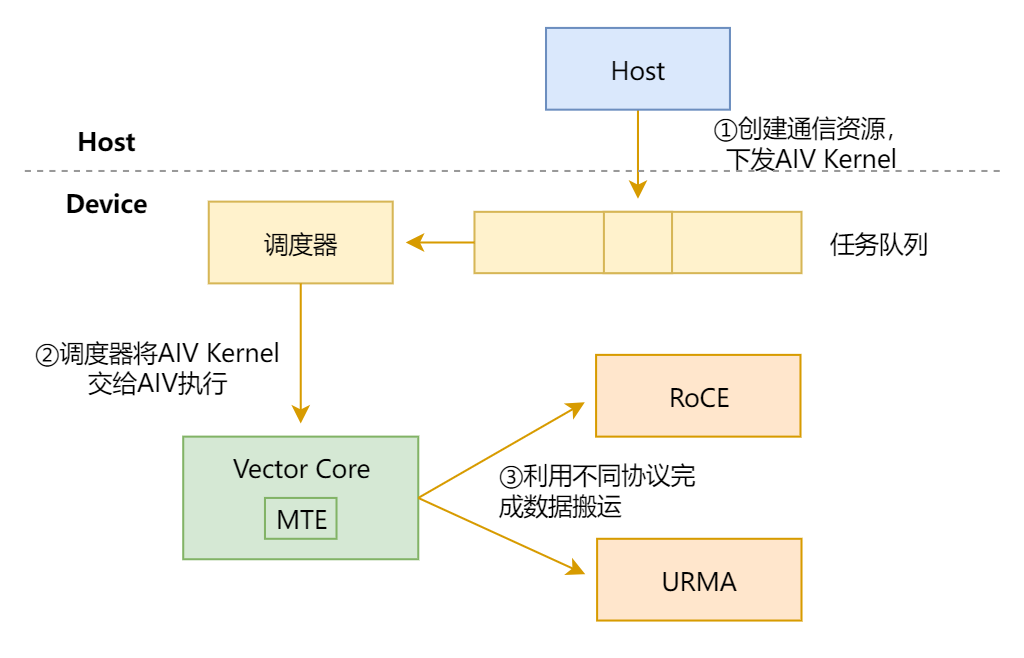
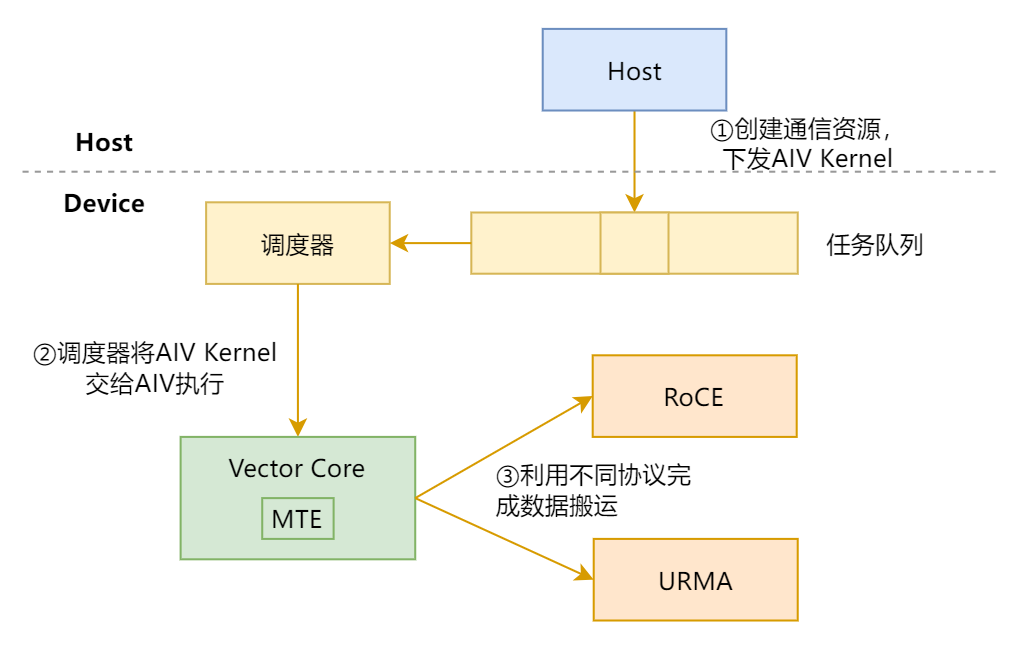
docs: 更新 communication_model 文档

diff --git a/docs/zh/programming-model/communication_model.md b/docs/zh/programming-model/communication_model.md
@@ -16,7 +16,7 @@
 
 | 概念 | 一句话解释 | 主要对应硬件 |
 |------|-----------|---------|
-| **通信设备（Endpoint）** | 网络通信的逻辑接口，包含协议与地址。 | NPU网口/Host NIC |
+| **通信设备（Endpoint）** | 网络通信的逻辑接口，包含协议与地址。 | NPU网口/Host网卡 |
 | **通信通道（Channel）** | 两端通信设备间的数据通道（含同步Notify）。 | RoCE QP/UB Jetty连接 |
 | **通信内存（CommMem）** | 注册到通信域、可被通信设备（Endpoint）访问的内存段。 | NPU HBM/Host内存 |
 | **通信引擎（CommEngine）** | 执行通信任务的模块，含线程（Thread）与线程调度器，驱动通信硬件搬移数据。 | AICPU_TS、CCU、AIV |
@@ -50,9 +50,7 @@
 
 ## 代理模式
 
-代理模式指当前算子Kernel将通信请求交给独立的数据面单元，由数据面单元根据请求完成本端与对端之间的数据传输。
-
-当前代理模式支持AI Core + AICPU_TS和AI Core + CCU两种组合。在这两种组合中，AI Core作为通信客户端，负责准备和提交通信请求并等待任务完成；AICPU_TS或CCU作为通信服务端，负责接收请求、完成数据传输并反馈完成状态。数据传输由通信服务端执行，不依赖当前算子Kernel持续执行通信操作。
+代理模式与直驱模式一样，也包含控制面和数据面。控制面负责通信资源创建、内存注册、Channel建立和访问关系准备；数据面负责基于已建立的Channel传递通信请求并完成本端与对端之间的数据传输。与直驱模式由通信引擎直接承接通信任务不同，代理模式由AI Core作为客户端提交通信请求，由AICPU_TS或CCU作为服务端接收并处理，完成后返回任务状态。
 
 ### AICPU_TS服务端
 
@@ -62,11 +60,7 @@
 
 ![AICPU_TS代理模式通信模型](./figures/aicpu_proxy_communication_model.png "AICPU_TS代理模式通信模型")<a id="fig-aicpu-ts-proxy-communication-model"></a>
 
-通信任务按以下流程执行：
-
-1. AI Core将通信操作、数据位置和数据量等信息写入消息区，并通知AICPU_TS开始处理。
-2. AICPU_TS从消息区读取通信请求，根据请求中的通信操作、数据位置和数据量完成本端与对端之间的数据传输。
-3. 数据传输完成后，AICPU_TS将完成状态写入消息区。AI Core等待完成状态，然后继续执行后续任务。
+AI Core客户端通过消息区写入通信请求和任务参数，并通知AICPU_TS处理；AICPU_TS服务端读取请求后操作Channel完成本端与对端之间的数据传输，再通过消息区返回完成状态。
 
 ### CCU服务端
 
@@ -76,8 +70,4 @@
 
 ![CCU代理模式通信模型](./figures/ccu_proxy_communication_model.png "CCU代理模式通信模型")<a id="fig-ccu-proxy-communication-model"></a>
 
-通信任务按以下流程执行：
-
-1. AI Core将通信请求写入通用寄存器，并通过同步寄存器通知CCU开始处理。
-2. CCU从通用寄存器读取通信请求，根据请求中的通信操作、数据位置和数据量完成本端与对端之间的数据传输。
-3. 数据传输完成后，CCU更新同步寄存器中的完成状态。AI Core等待完成状态，然后继续执行后续任务。
+AI Core客户端通过通用寄存器写入通信请求和任务参数，并通过同步寄存器通知CCU处理；CCU服务端读取请求后操作Channel完成本端与对端之间的数据传输，再更新同步寄存器中的完成状态。

diff --git a/docs/zh/programming-model/execution_model.md b/docs/zh/programming-model/execution_model.md
@@ -144,7 +144,7 @@ uint32_t* remoteBuf;   // 远端数据地址
 // 从对端remoteBuf读取4字节数据到localBuf。
 Read(channel, localBuf, remoteBuf, sizeof(uint32_t));
 // 轮询CQ，阻塞至本端读取完成。
-PollCQ(channel);
+Drain(channel);
 // 此处本端已完成读取，localBuf中的数据可用。
 if (*localBuf == expectValue) {
     Process();
@@ -159,7 +159,7 @@ if (*localBuf == expectValue) {
 
 建立点对点的跨Rank同步时，由对端在完成数据写入后发送同步信号，本端通过轮询该信号判断远端数据是否已就绪。
 
-以远端写操作为例，Rank 0向Rank 1写入数据，Rank 1必须通过点对点同步确认数据已写入完毕，再访问写入结果；否则可能读到半更新的数据，导致后续逻辑出错。
+以远端写操作为例，Rank 0向Rank 1写入数据，Rank 1必须通过点对点同步确认数据已写入完毕，再访问写入结果；否则会产生未定义行为，读取结果不可预测，可能读到旧数据或部分更新的数据，引发后续逻辑出错。
 
 ```text
 // 点对点同步：Rank 0向Rank 1写入数据，Rank 1等待同步信号后处理数据。
